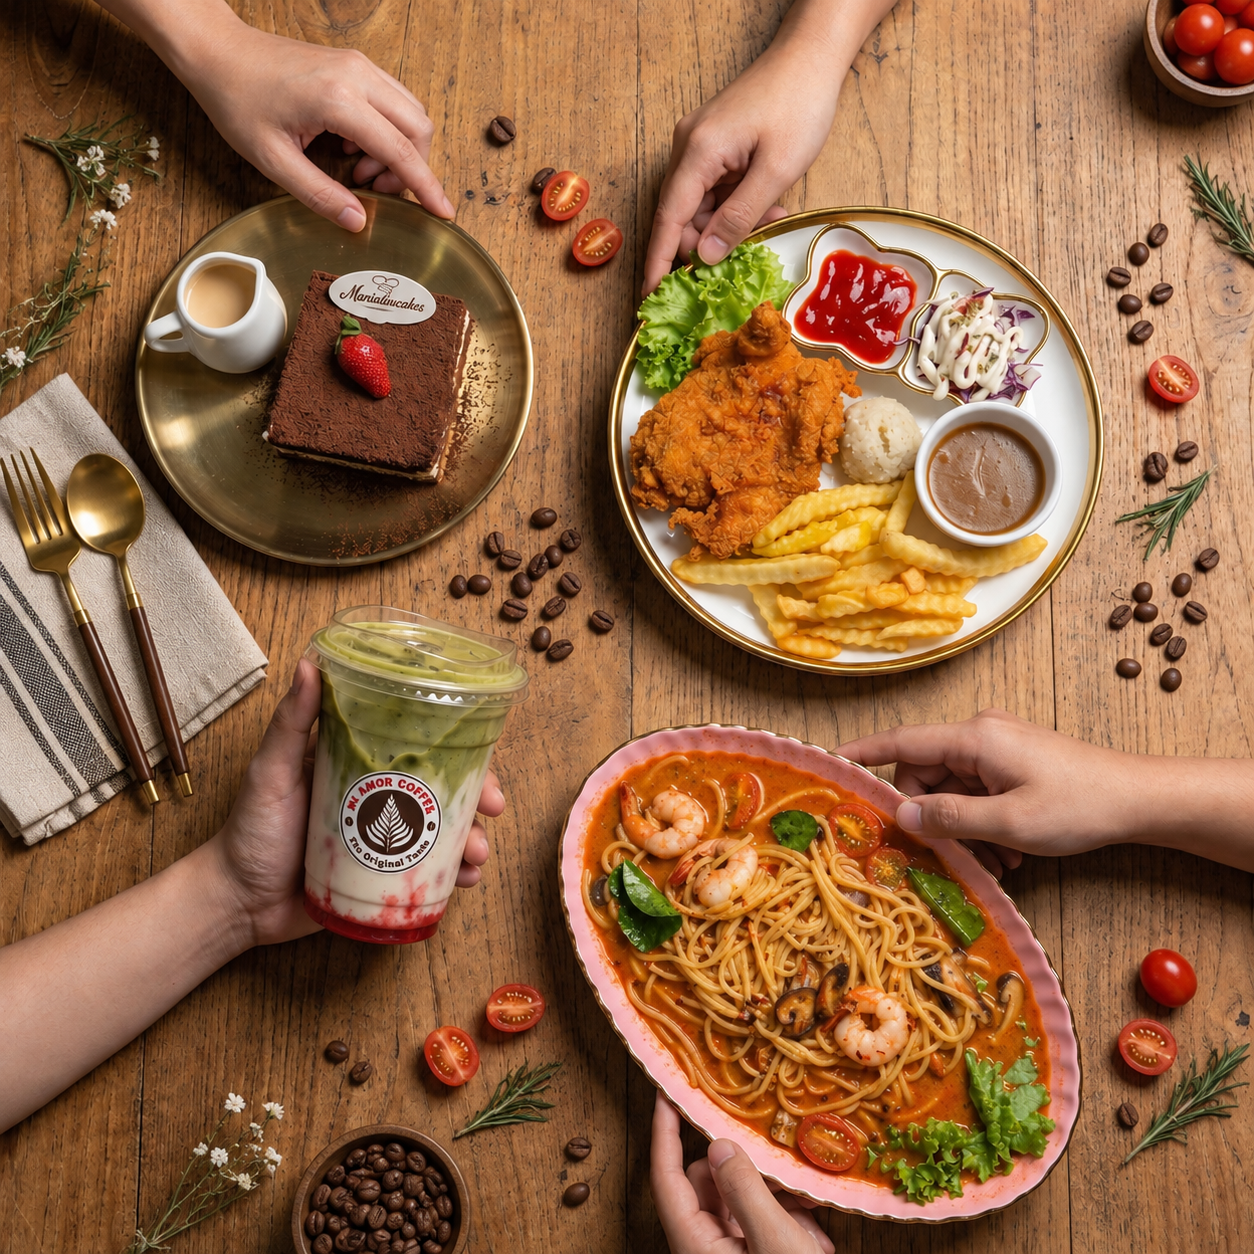
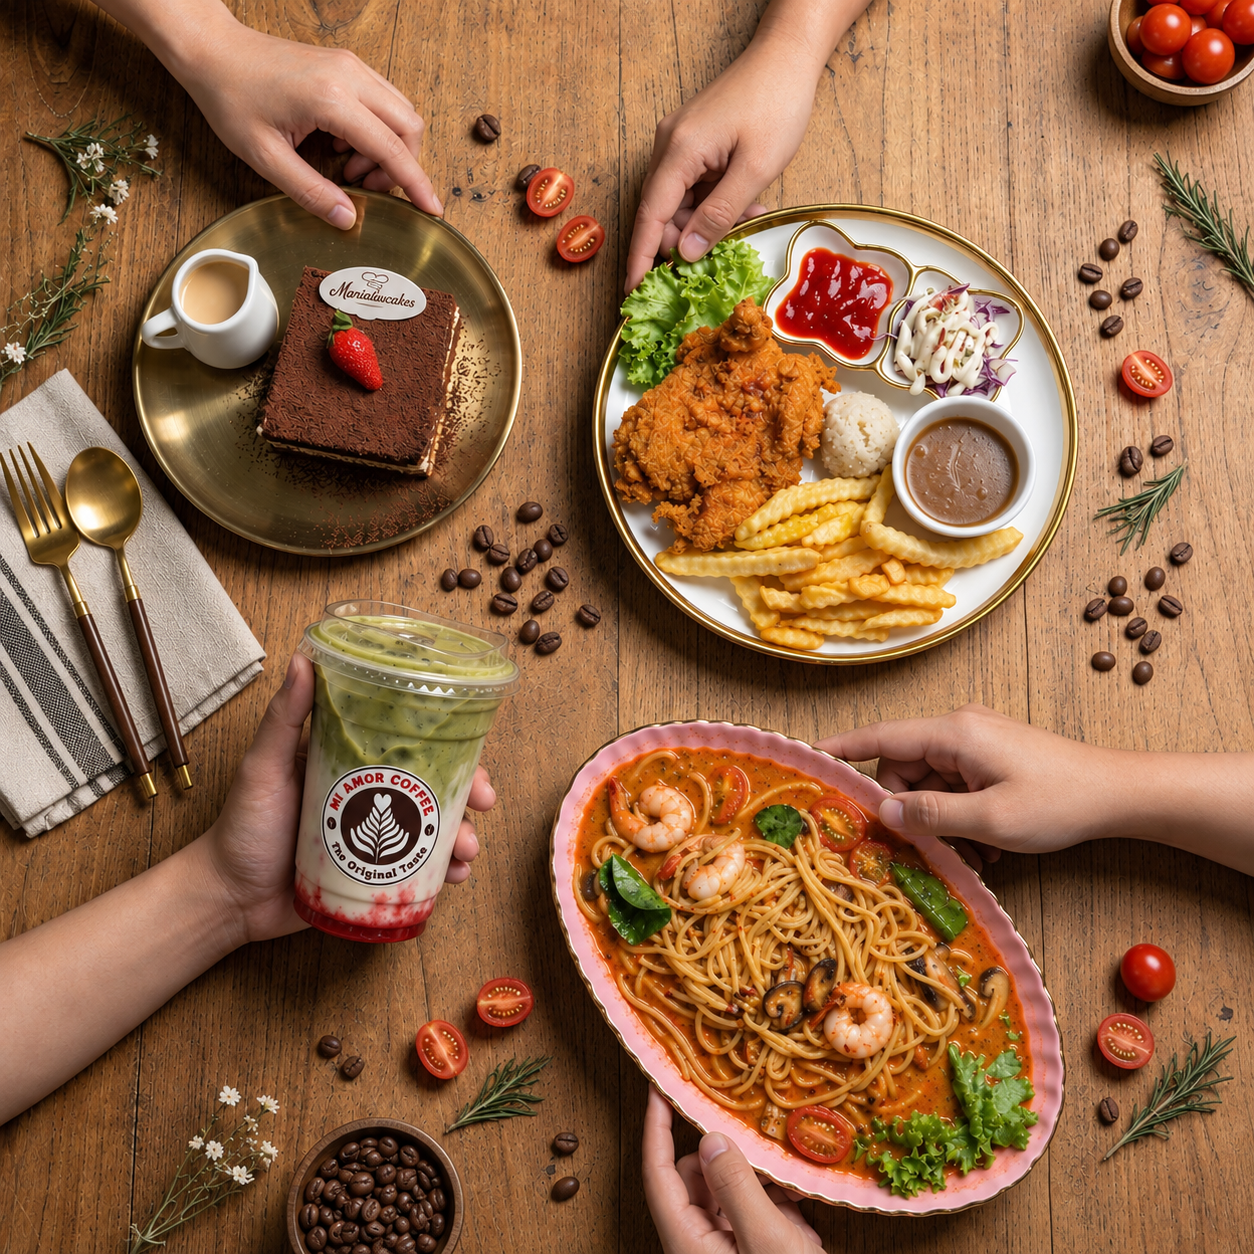
Switch hero to PNG, remove floating WhatsApp, footer polish

diff --git a/index.html b/index.html
@@ -21,13 +21,13 @@
   <meta property="og:title" content="Miamor Coffee House Muar — Private Rooms, Premium Coffee & Food" />
   <meta property="og:description" content="Book a private room at Miamor Coffee House in Muar, Johor. Premium coffee, rice, pasta, Western & desserts — perfect for birthdays, meetings and gatherings." />
   <meta property="og:url" content="https://miamorcoffeehouse.my/" />
-  <meta property="og:image" content="https://miamorcoffeehouse.my/miamor_hero.jpg" />
+  <meta property="og:image" content="https://miamorcoffeehouse.my/miamor_hero.png" />
   <meta property="og:image:alt" content="Miamor Coffee House cafe interior in Muar" />
   <!-- Twitter Card -->
   <meta name="twitter:card" content="summary_large_image" />
   <meta name="twitter:title" content="Miamor Coffee House Muar — Private Rooms, Premium Coffee & Food" />
   <meta name="twitter:description" content="Book a private room at Miamor Coffee House in Muar, Johor. Premium coffee, rice, pasta, Western & desserts." />
-  <meta name="twitter:image" content="https://miamorcoffeehouse.my/miamor_hero.jpg" />
+  <meta name="twitter:image" content="https://miamorcoffeehouse.my/miamor_hero.png" />
   <meta name="theme-color" content="#3E2723" />
   <meta name="apple-mobile-web-app-status-bar-style" content="black-translucent" />
   <meta name="apple-mobile-web-app-capable" content="yes" />
@@ -42,7 +42,7 @@
     "@context": "https://schema.org",
     "@type": "CafeOrCoffeeShop",
     "name": "Miamor Coffee House",
-    "image": "https://miamorcoffeehouse.my/miamor_hero.jpg",
+    "image": "https://miamorcoffeehouse.my/miamor_hero.png",
     "url": "https://miamorcoffeehouse.my/",
     "telephone": "+60177402975",
     "priceRange": "RM",

diff --git a/src/components/Footer.jsx b/src/components/Footer.jsx
@@ -47,11 +47,11 @@ export default function Footer() {
                                     <p className="text-brand-beige/60">10:30 AM – 6:30 PM</p>
                                 </div>
                             </li>
-                            <li className="flex items-start justify-center md:justify-start gap-3 opacity-50">
-                                <Clock className="w-4 h-4 text-brand-beige/20 mt-0.5 flex-shrink-0" />
+                            <li className="flex items-start justify-center md:justify-start gap-3 opacity-80">
+                                <Clock className="w-4 h-4 text-brand-beige/40 mt-0.5 flex-shrink-0" />
                                 <div className="text-center md:text-left">
-                                    <p className="text-brand-beige/40 font-medium">Sunday</p>
-                                    <p className="text-brand-beige/30 italic">Closed</p>
+                                    <p className="text-brand-beige/60 font-medium">Sunday</p>
+                                    <p className="text-brand-beige/50 italic">Closed</p>
                                 </div>
                             </li>
                         </ul>

diff --git a/src/pages/LandingPage.jsx b/src/pages/LandingPage.jsx
@@ -4,7 +4,6 @@ import HeroSection from '../components/HeroSection'
 import Footer from '../components/Footer'
 import RoomCarousel from '../components/RoomCarousel'
 import BookingSection from '../components/BookingSection'
-import FloatingWhatsApp from '../components/FloatingWhatsApp'
 import TikTokDecoSection from '../components/TikTokDecoSection'
 import MenuHighlights from '../components/MenuHighlights'
 import { MENU_PDF_URL } from '../lib/constants'
@@ -275,7 +274,6 @@ export default function LandingPage() {
             </section>
 
             <Footer />
-            <FloatingWhatsApp />
         </div>
     )
 }

diff --git a/src/components/HeroSection.jsx b/src/components/HeroSection.jsx
@@ -6,7 +6,7 @@ export default function HeroSection() {
             {/* Background Image & Overlay */}
             <div className="absolute inset-0 z-0">
                 <img
-                    src="/miamor_hero.jpg"
+                    src="/miamor_hero.png"
                     alt="Suasana Miamor Coffee House"
                     className="w-full h-full object-cover object-[72%_center] md:object-center"
                 />

diff --git a/src/components/BookingSection.jsx b/src/components/BookingSection.jsx
@@ -11,7 +11,7 @@ export default function BookingSection() {
             {/* Background image + overlay */}
             <div className="absolute inset-0">
                 <img
-                    src="/miamor_hero.jpg"
+                    src="/miamor_hero.png"
                     alt=""
                     aria-hidden="true"
                     className="w-full h-full object-cover opacity-30"
